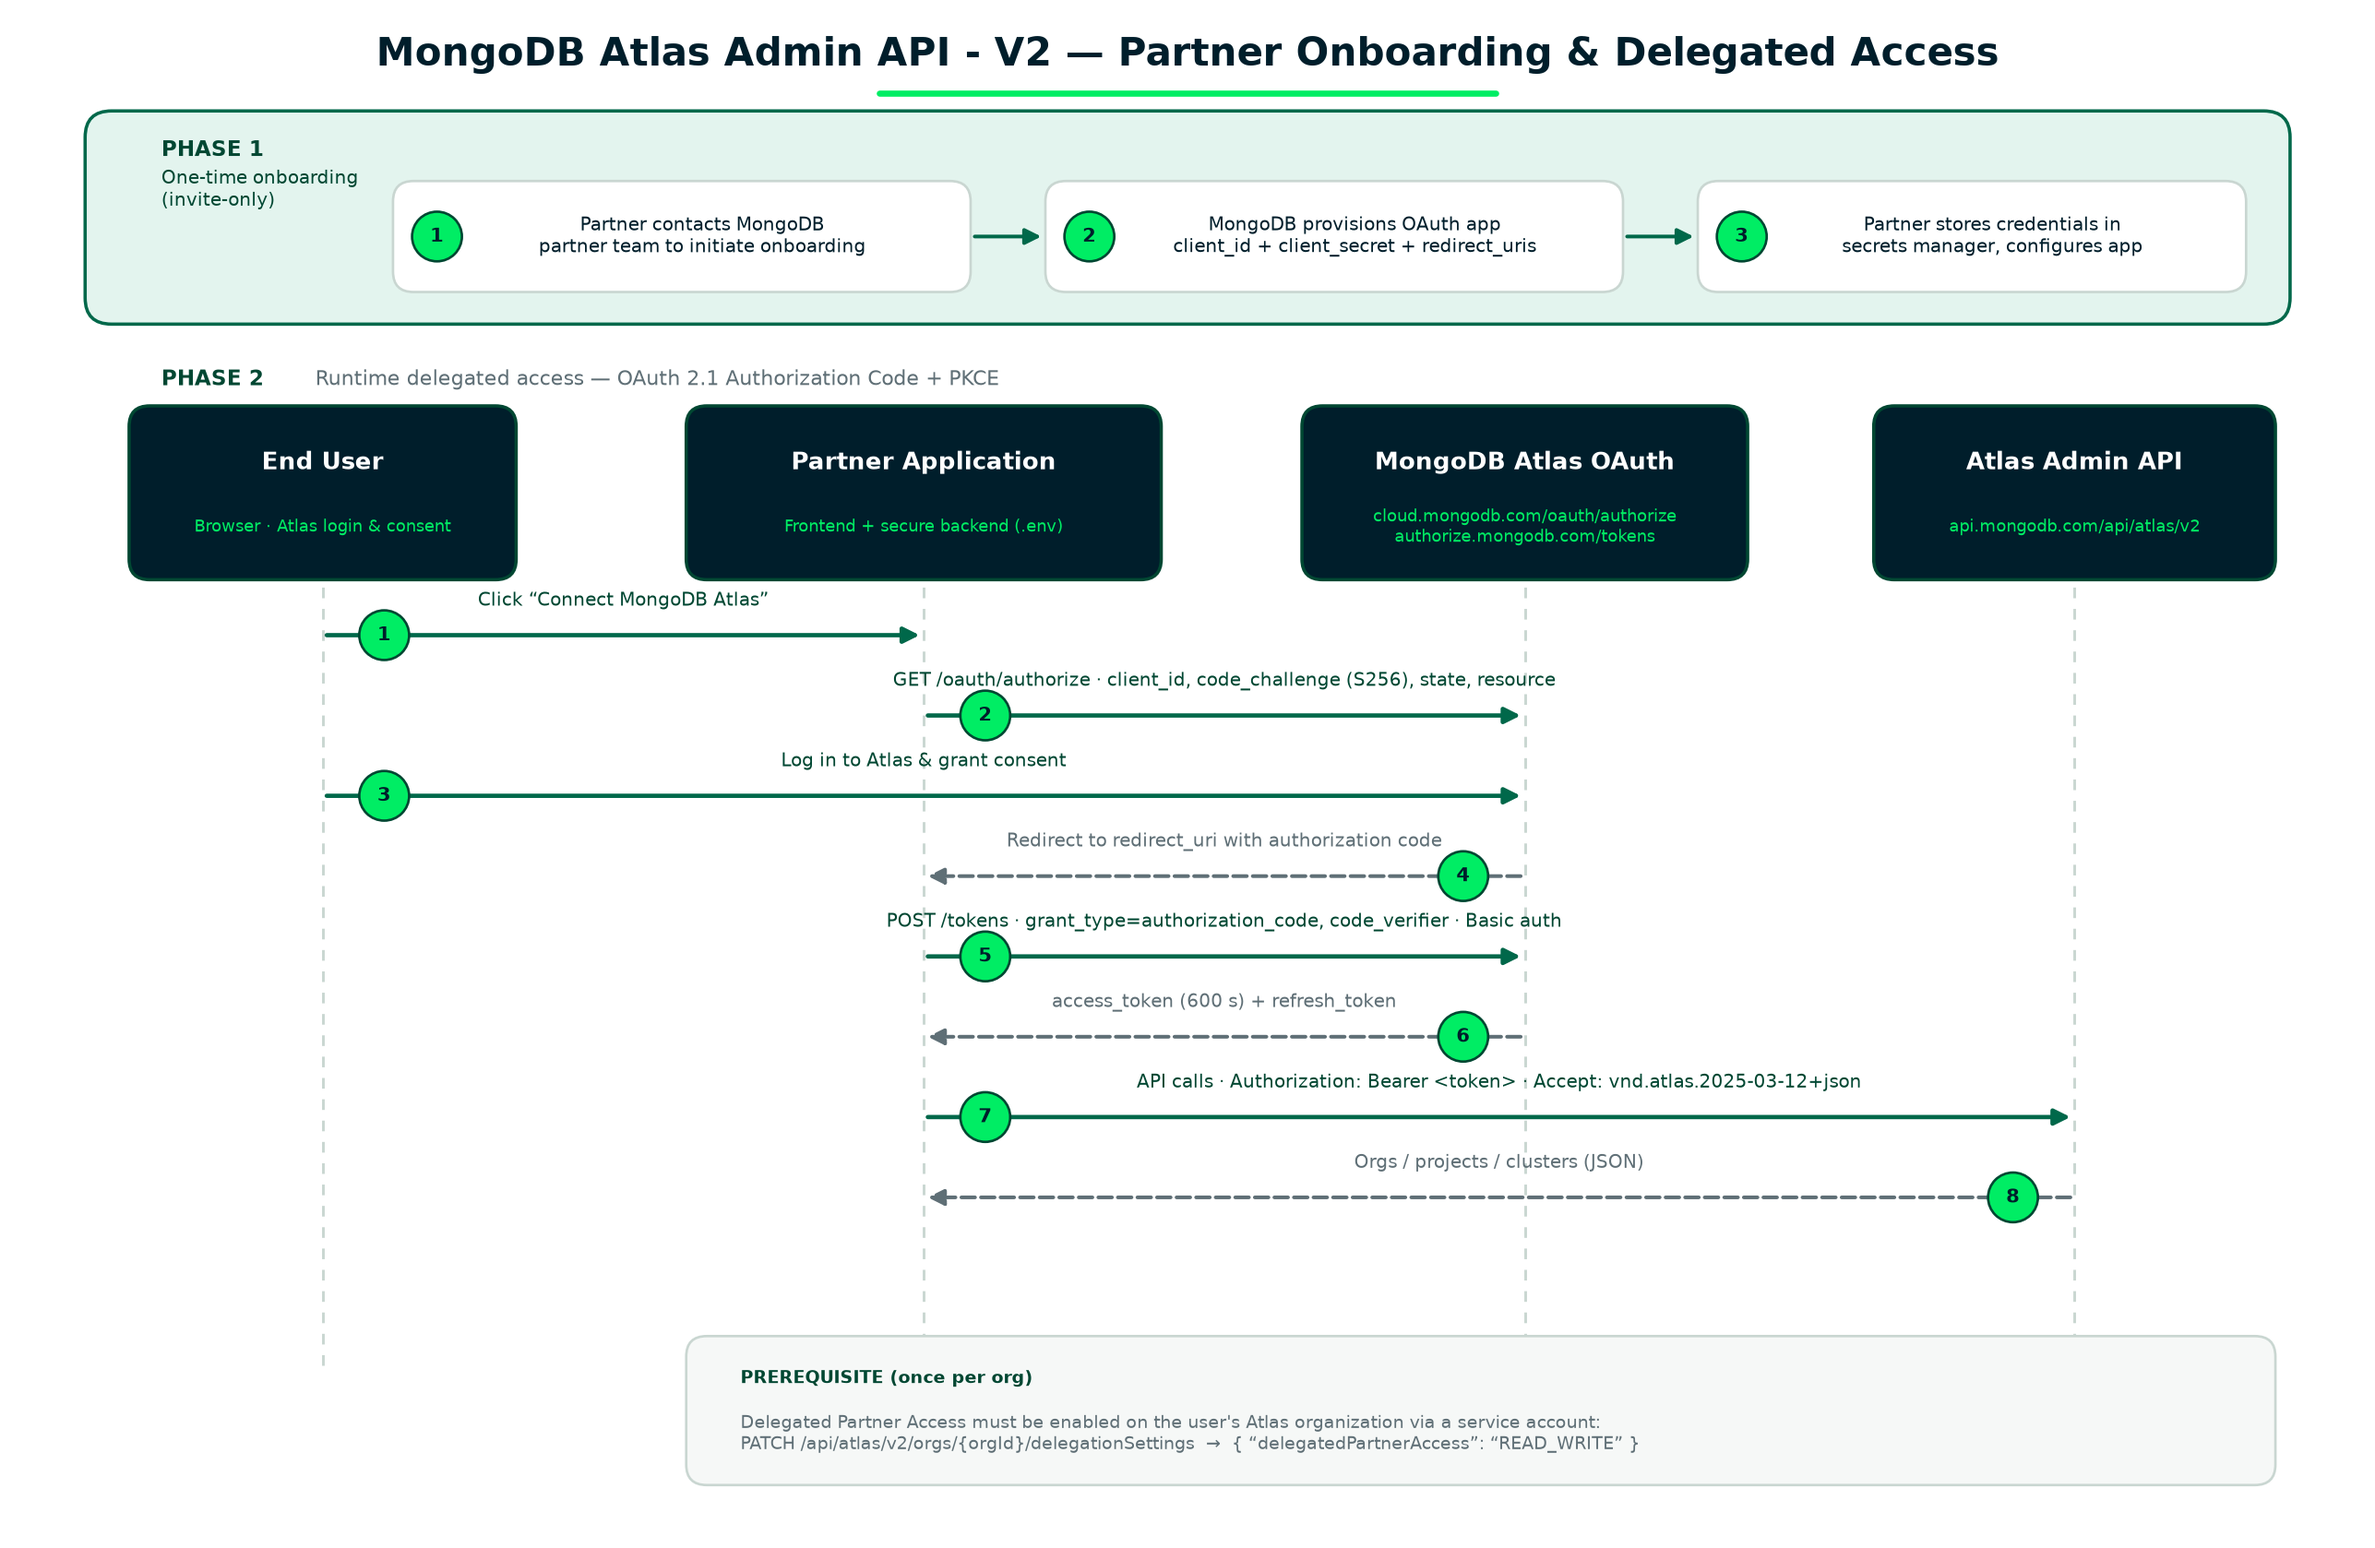
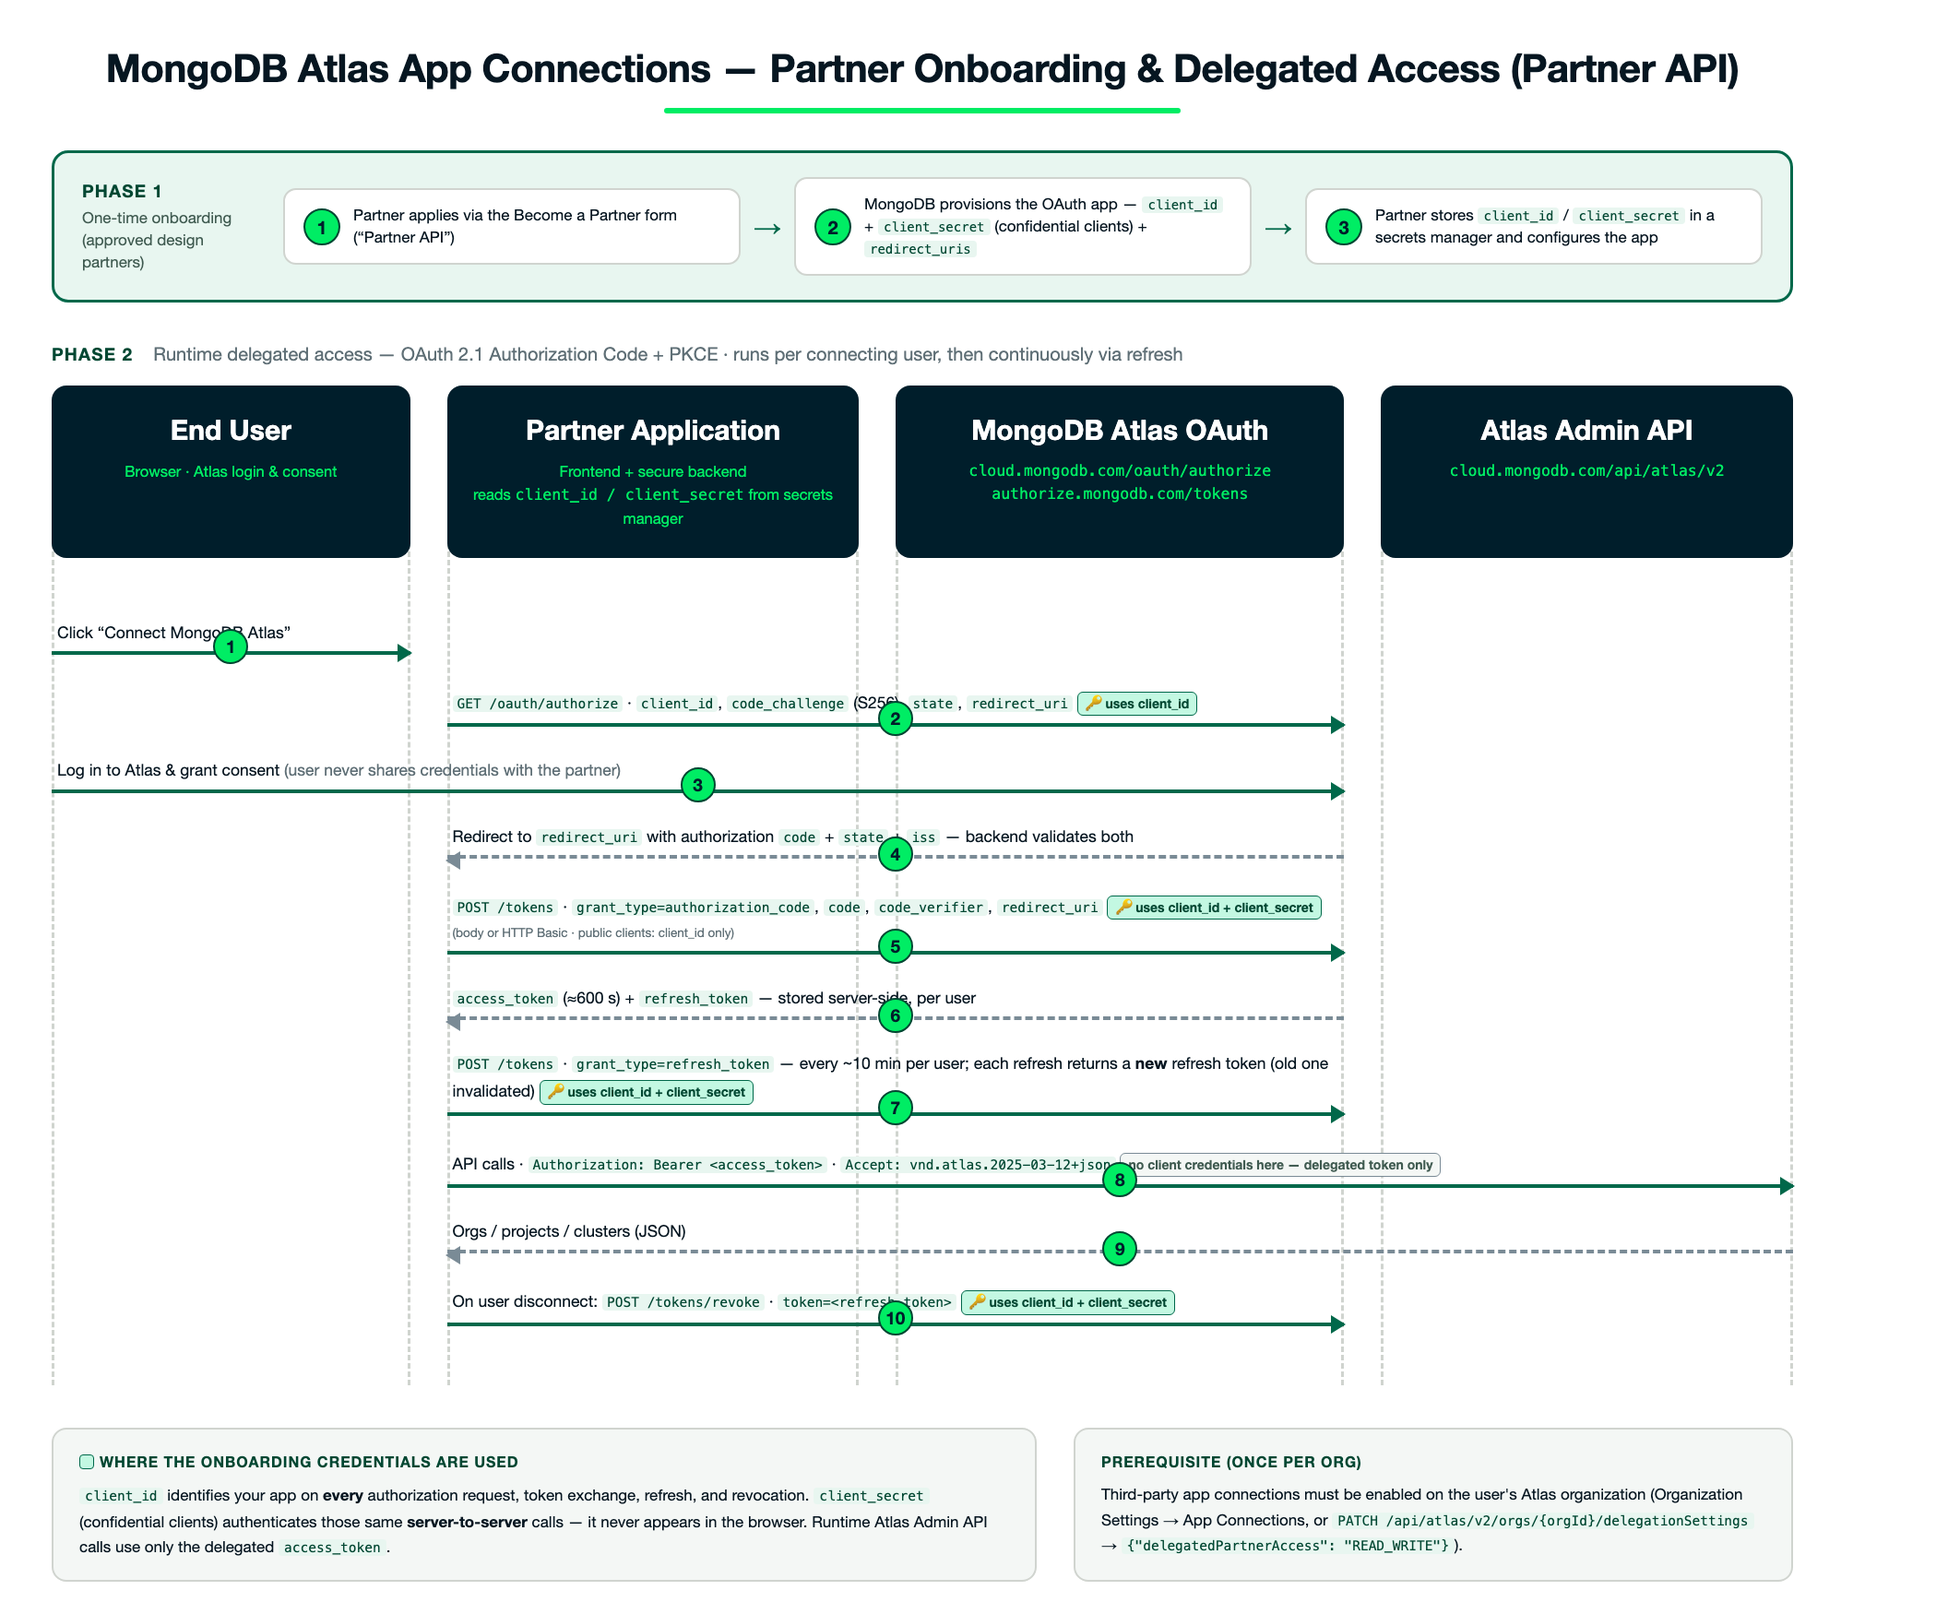
Show where client_id/client_secret are used post-onboarding
- Regenerate the onboarding-architecture diagram: mark every runtime step
  that consumes the onboarding credentials (authorize request, code
  exchange, refresh loop, revocation) with a key badge, and add a legend
  explaining that Atlas Admin API calls use only the delegated token
- Add a 'Where the credentials are used at runtime' table to the Partner
  Integration Guide mapping each endpoint to client_id / client_secret usage
- Cross-link the mapping from Partner Onboarding (Step 3)

diff --git a/docs/index.html b/docs/index.html
@@ -2043,7 +2043,7 @@
     <p class="section-sub reveal">From design-partner onboarding to the runtime OAuth 2.1 delegated access flow — the full picture in one diagram.</p>
     <div class="diagram-card reveal">
       <a href="onboarding-architecture.png" target="_blank" rel="noopener">
-        <img src="onboarding-architecture.png" alt="Architecture diagram: MongoDB Atlas Admin API - V2 partner onboarding and delegated access flow" loading="lazy" />
+        <img src="onboarding-architecture.png" alt="Architecture diagram: Atlas App Connections partner onboarding and delegated access flow — showing where client_id and client_secret are used at runtime" loading="lazy" />
       </a>
       <div class="diagram-caption">Partner onboarding &amp; delegated access — click to open full size</div>
     </div>

diff --git a/docs/README.md b/docs/README.md
@@ -171,6 +171,21 @@ For the full onboarding process — what to provide, app configuration fields, a
 > [!NOTE]
 > **Don't confuse OAuth client credentials with other Atlas credentials.** The `client_id` / `client_secret` discussed in this guide belong to your partner OAuth app and are issued by MongoDB during onboarding. They are different from (a) **service account** credentials (`mdb_sa_id_...` / `mdb_sa_sk_...`) that you create yourself in Atlas for client-credentials access (see [Set Up a Test Atlas Environment](#set-up-a-test-atlas-environment)), and (b) the **MCP configuration** client ID/secret that Atlas generates when an admin creates an MCP configuration for the Remote MCP server (see the [MCP access models](https://www.mongodb.com/docs/mcp-server/remote-mcp/access-models)). None of these are end-user-generated.
 
+### Where the credentials are used at runtime
+
+The onboarding credentials authenticate **your application** to MongoDB's authorization server — they are used on *every* runtime flow, not just once, and they never appear in the end user's browser (the `client_id` appears only as a URL parameter identifying your app):
+
+| Runtime call | Endpoint | `client_id` | `client_secret` (confidential clients only) |
+|---|---|---|---|
+| Authorization request (per user connect) | `GET {CLOUD_BASE}/oauth/authorize` | ✅ URL parameter — identifies your app and its allowed `redirect_uri` | ❌ never in the browser |
+| Authorization-code exchange | `POST {OAUTH_BASE}/tokens` | ✅ body parameter (or Basic-auth username) | ✅ body parameter (or Basic-auth password) — proves the call comes from your backend |
+| Refresh-token grant (~every 10 min per connected user) | `POST {OAUTH_BASE}/tokens` | ✅ same as above | ✅ same as above |
+| Token revocation (user disconnect) | `POST {OAUTH_BASE}/tokens/revoke` | ✅ Basic-auth username | ✅ Basic-auth password |
+| Atlas Administration API calls | `{CLOUD_BASE}/api/atlas/v2/...` | ❌ | ❌ — these use only the delegated `Authorization: Bearer <access_token>` |
+
+> [!TIP]
+> This is why `client_secret` must live in a secrets manager reachable by your **backend** at runtime — the token exchange, refresh, and revocation calls all happen server-to-server, long after onboarding. Public (SPA) clients skip the secret entirely: PKCE alone authenticates them.
+
 ---
 
 ## Obtain an Access Token

diff --git a/docs/PARTNER.md b/docs/PARTNER.md
@@ -97,6 +97,9 @@ MongoDB will share:
 
 These credentials are issued by MongoDB for your **partner OAuth app**. They are distinct from **service account** credentials (which you or your customers create in Atlas for client-credentials access) and from **MCP configuration** credentials (which Atlas generates for the Remote MCP server) — see [Get Your OAuth Credentials](README.md#get-your-oauth-credentials).
 
+> [!TIP]
+> **Where they're used after onboarding:** `client_id` identifies your app on every authorization request, token exchange, refresh, and revocation call; `client_secret` authenticates those same server-to-server calls (token exchange, refresh, `/tokens/revoke`). Runtime Atlas Administration API calls use only the delegated access token — never the client credentials. The full mapping table is in the [Partner Integration Guide](README.md#where-the-credentials-are-used-at-runtime).
+
 Configure them in your `.env` alongside the environment endpoints — see [Environments](README.md#environments) in the Partner Integration Guide.
 
 ---
